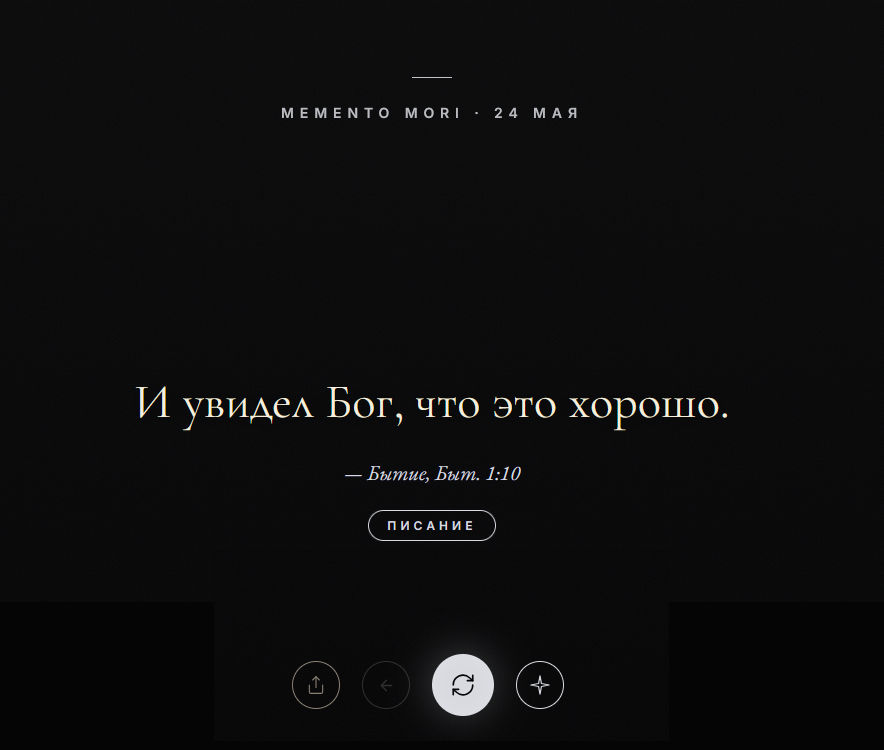
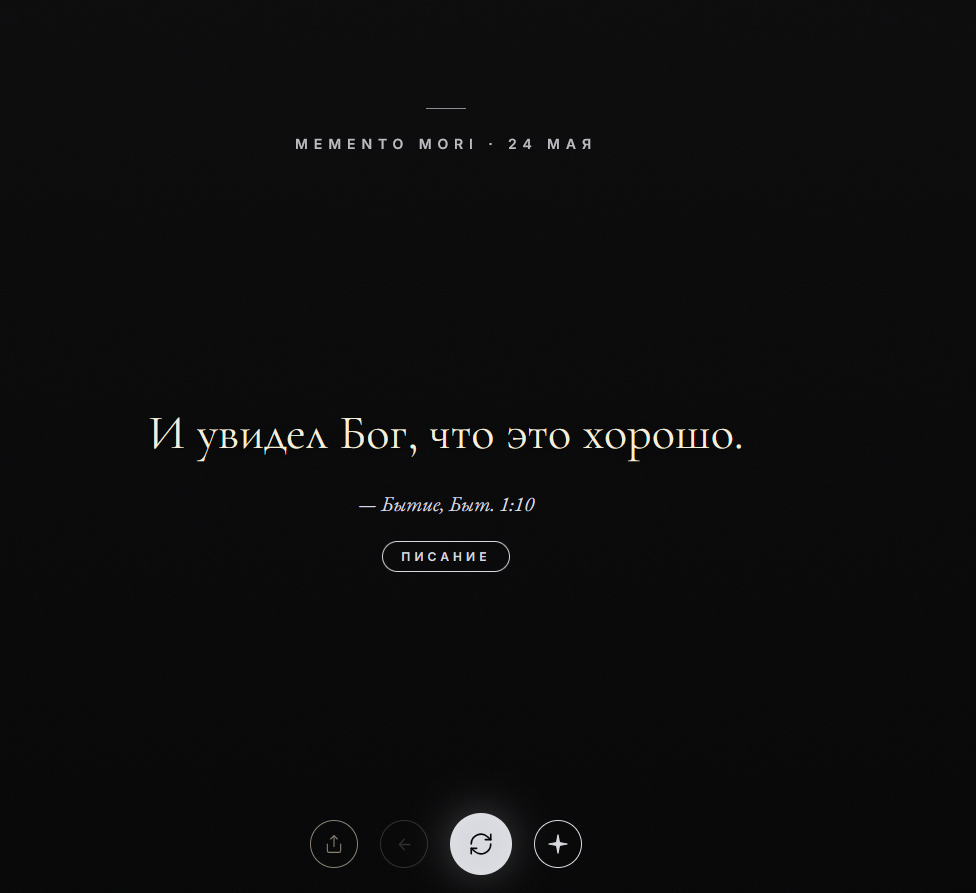
docs: remove separate buttons section, use combined main screenshot

diff --git a/README.md b/README.md
@@ -35,11 +35,6 @@ Marcus это спокойное приложение с короткой мыс
 </p>
 
 <p align="center">
-  <strong>Кнопки управления</strong><br />
-  <img src="./screenshot_buttons.png" alt="Кнопки управления" width="300" />
-</p>
-
-<p align="center">
   <strong>Отобранные цитаты</strong><br />
   <img src="./screenshot_favorites.png" alt="Отобранные цитаты" width="480" />
 </p>
@@ -86,11 +81,6 @@ It keeps short thoughts from stoicism, philosophy, cinema, military notes and ot
 <p align="center">
   <strong>Main Screen</strong><br />
   <img src="./screenshot_main.png" alt="Main Screen" width="480" />
-</p>
-
-<p align="center">
-  <strong>Controls</strong><br />
-  <img src="./screenshot_buttons.png" alt="Controls" width="300" />
 </p>
 
 <p align="center">
